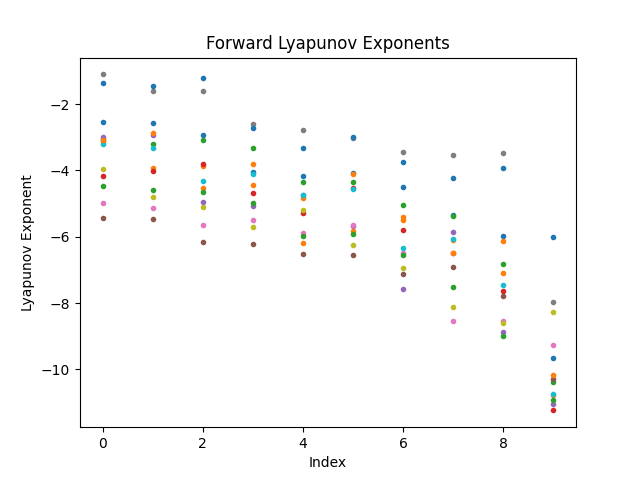
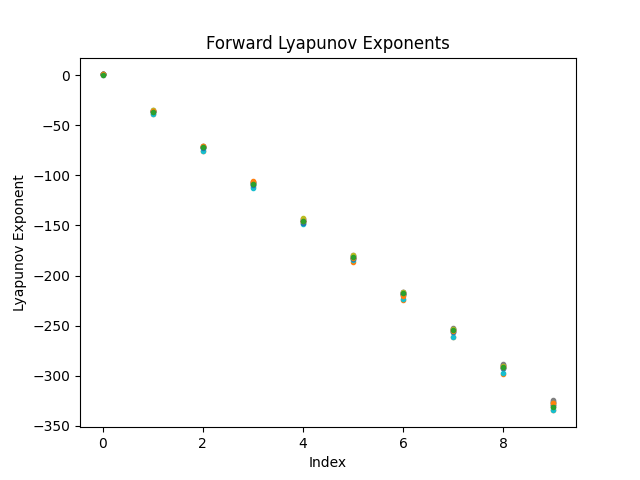
.

diff --git a/code/nn/main.py b/code/nn/main.py
@@ -23,7 +23,7 @@ def softmax(x):
         x = x - np.max(x, axis=0)
         y = np.exp(x) / np.sum(np.exp(x), axis=0)
         return y.T
-    x = x - np.max(x)  # 溢出对策
+    x = x - np.max(x)
     return np.exp(x) / np.sum(np.exp(x))
 
 def softmax_grad(x):
@@ -141,30 +141,14 @@ if __name__ == "__main__":
     def f2(z):
         return softmax(np.dot(z.T, W2) + b2).flatten()
 
-    def f1_grad(x, dz):
-        x = x.reshape(1, x.shape[0])
-        # t = t.reshape(1, t.shape[0])
-        a = np.dot(x, W1) + b1
-        # z = sigmoid(a)
-        # dz = np.eye(a.shape[1])
-        da = np.dot(dz, np.diag(sigmoid_grad(a[0])))
-        dx = np.dot(da, W1.T)
+    def f1_grad(dz):
+        dx = np.dot(W1, sigmoid_grad(dz))
         return dx
 
-    def f2_grad(z):
-        # z - value of the hidden layer
-        z = z.reshape(1, z.shape[0])
-        # t - target value
-        # t = t.reshape(1, t.shape[0])
-        # batch_num = z.shape[0]
-
-        a2 = np.dot(z, W2) + b2
-        # y = softmax(a2)
-        dy = np.random.randn(10)
-        # dy = np.diag((y - t).flatten() / batch_num)
-        dy = dy.reshape(1, dy.shape[0])
-        dz = np.dot(softmax_grad(dy), W2.T)
+    def f2_grad(dy):
+        dz = np.dot(W2, softmax_grad(dy))
         return dz
+        
 
     forward_lambdas_s = []
     backward_lambdas_s = []
@@ -203,26 +187,25 @@ if __name__ == "__main__":
         Q2, R2 = qr(_W2)
         D_forward.append(np.diag(R2))
 
-        y_theory = t_train[idx]
-        dy = y_theory - y
         Q2 = np.linalg.qr(np.random.randn(50, 10))[0]
+        dy = np.random.randn(10)
 
         # Backward - 2nd time step
-        _W2 = np.zeros((784, 50))
+        dz = f2_grad(dy)
+        _W2 = np.zeros((50, 10))
         for j in range(10):
-            w2j = Q2[:50, j]
-            w1j = f2_grad(z) @ w2j
+            w2j = Q2[:, j]
+            w1j = f2_grad(dy)
             _W2[:, j] = w1j
         Q1, R1 = qr(_W2)
         D_backward.append(np.diag(R1))
 
-        dz = _W2
-
-        # Backward - 1st time step
-        _W1 = np.zeros((784, 784))
+        # Forward - 1st time step
+        dx = f1_grad(dz)
+        _W1 = np.zeros((784, 50))
         for j in range(50):
-            w1j = Q1[:784, j]
-            w0j = f1_grad(x, sigmoid_grad(dz)) @ w1j
+            w1j = Q1[:, j]
+            w0j = f1_grad(dz)
             _W1[:, j] = w0j
         Q0, R0 = qr(_W1)
         D_backward.append(np.diag(R0))
